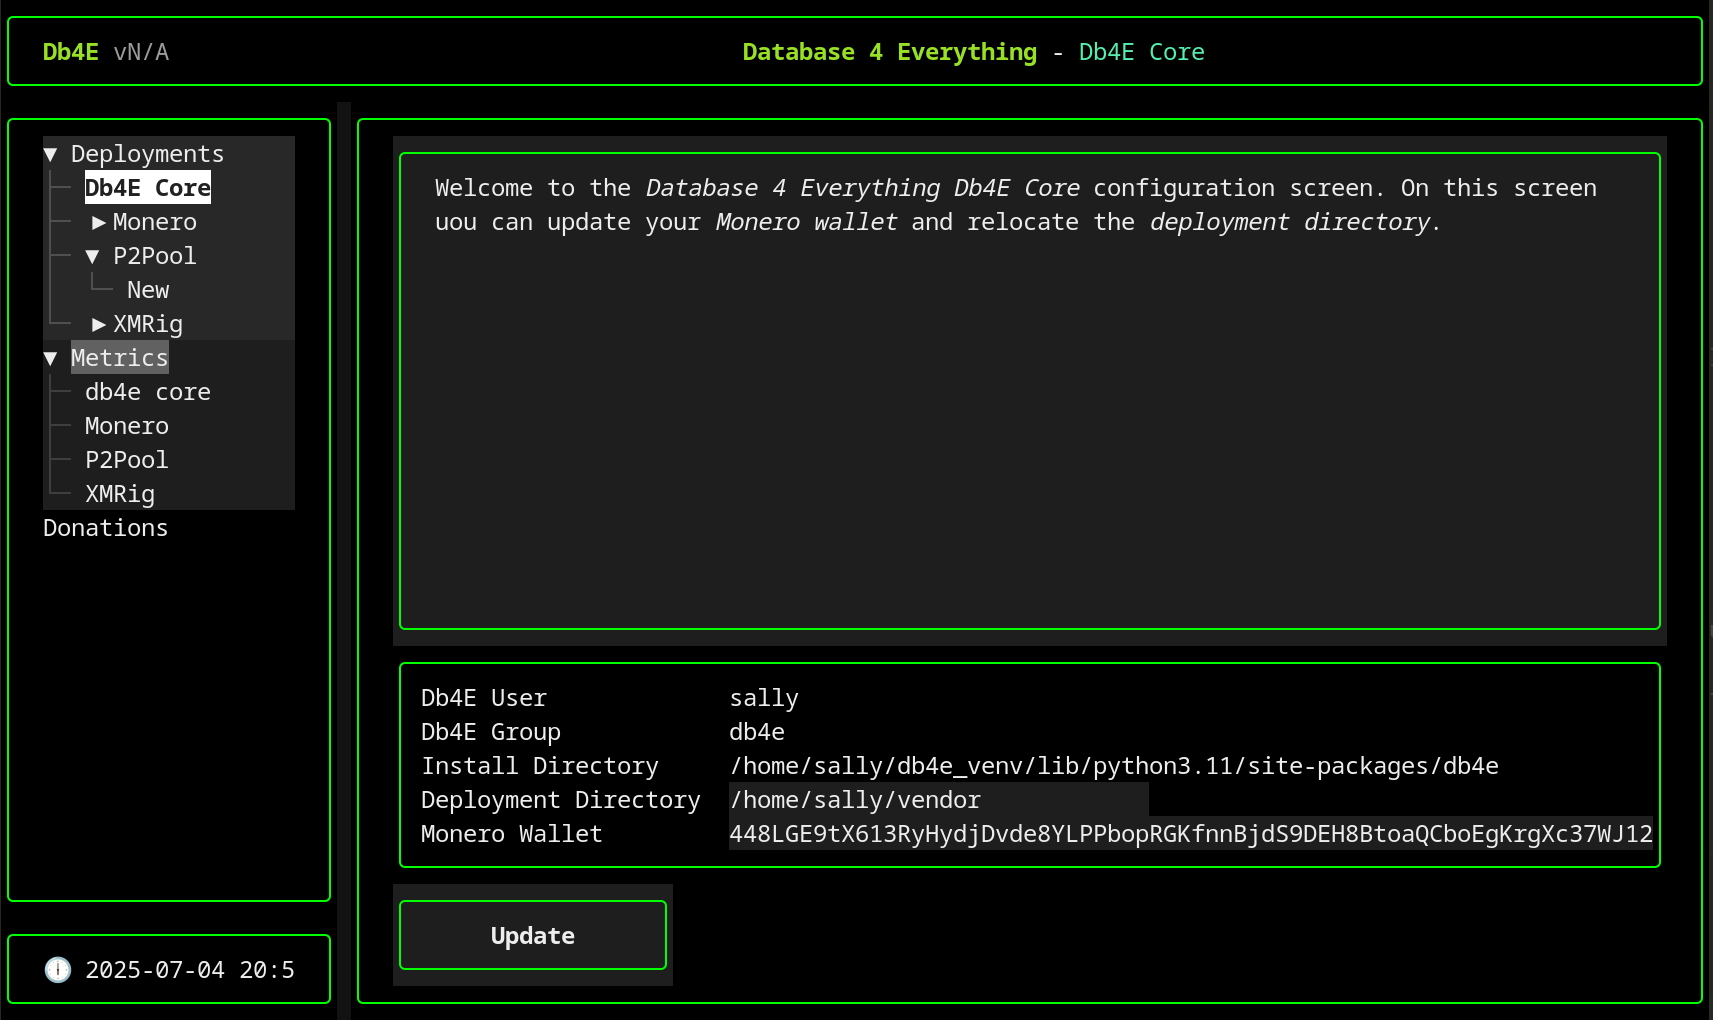
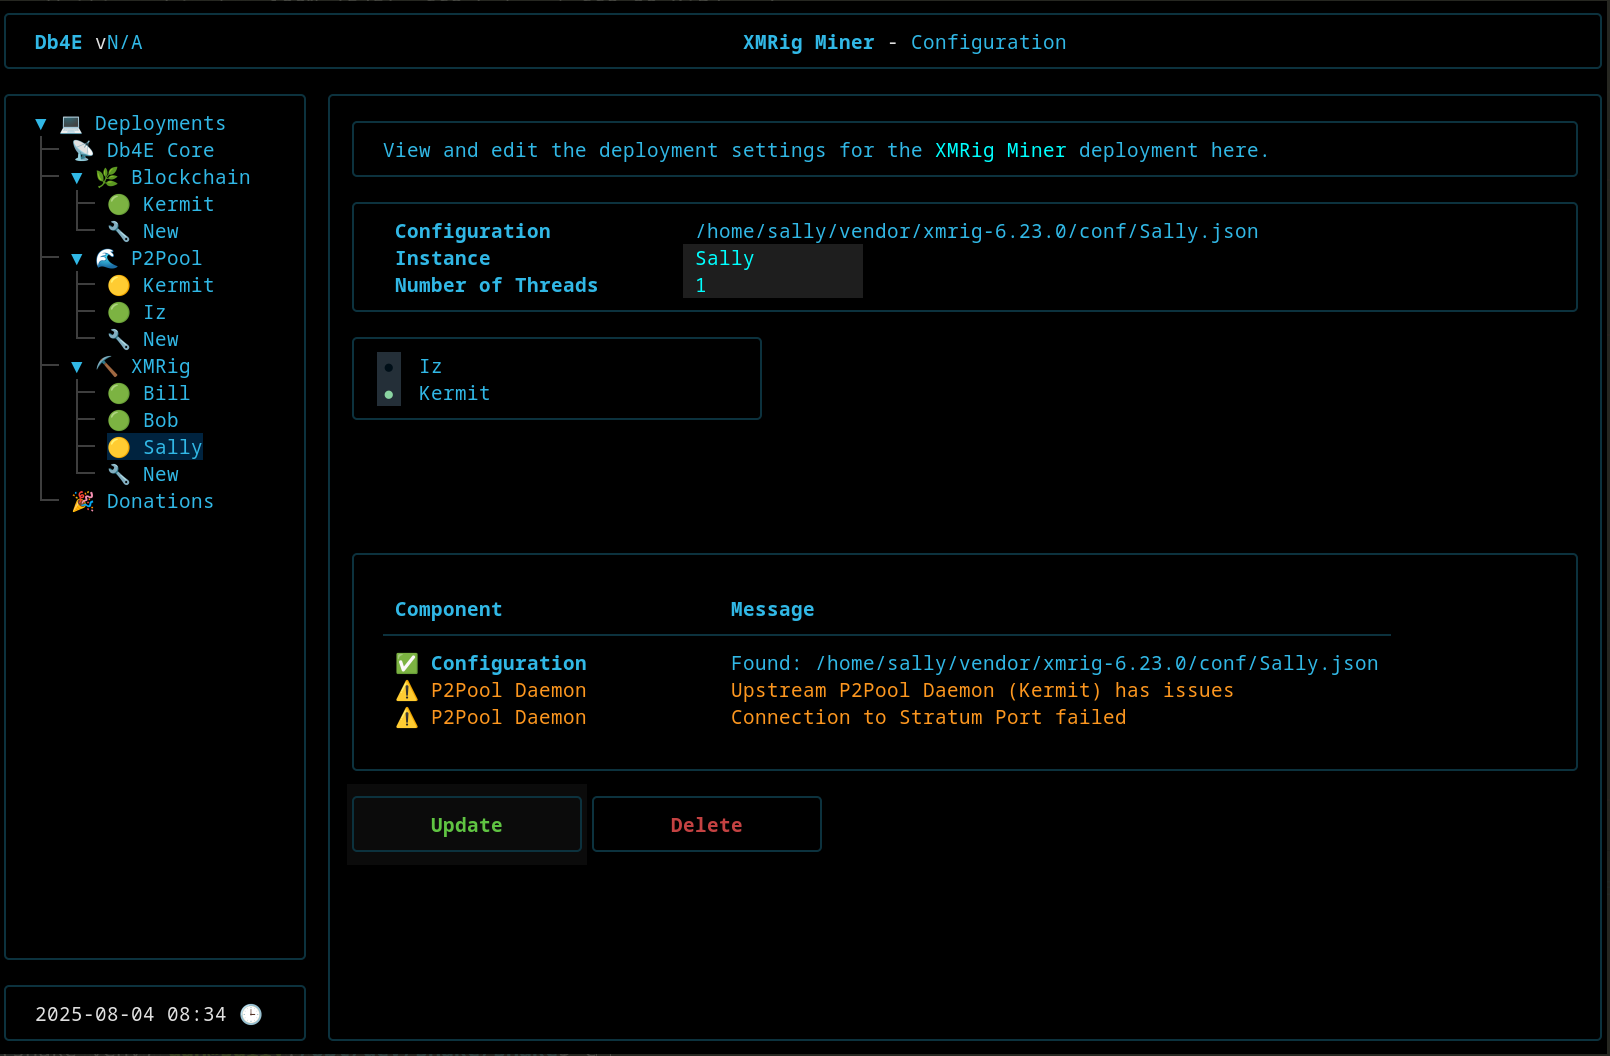
feat: updated screenshot

diff --git a/db4e/Constants/Defaults.py b/db4e/Constants/Defaults.py
@@ -33,7 +33,7 @@ DB4E_REFRESH_DEFAULT = 15
 DB4E_SERVICE_FILE_DEFAULT = "db4e.service"
 DB4E_START_SCRIPT_DEFAULT = "db4e-service.sh"
 DB4E_UNINSTALL_SCRIPT_DEFAULT = "db4e-uninstall-service.sh"
-DB4E_VERSION_DEFAULT = "0.26.0"
+DB4E_VERSION_DEFAULT = "0.26.1"
 DEPLOYMENT_COL_DEFAULT = "depl"
 DEV_DIR_DEFAULT = "dev"
[1 lines of base64/hex data omitted]

diff --git a/CHANGELOG.md b/CHANGELOG.md
@@ -7,6 +7,13 @@ and this project adheres to [Semantic Versioning](https://semver.org/spec/v2.0.0
 
 ---
 
+## [0.26.1] - 2025-08-04
+
+### Changed
+- Updated screenshot of the Db4E console on the [website](https://db4e.osoyalce.com/pages/db4e-tui.py.html)
+
+---
+
 ## [0.26.0] - 2025-08-04
 
 ### Added
